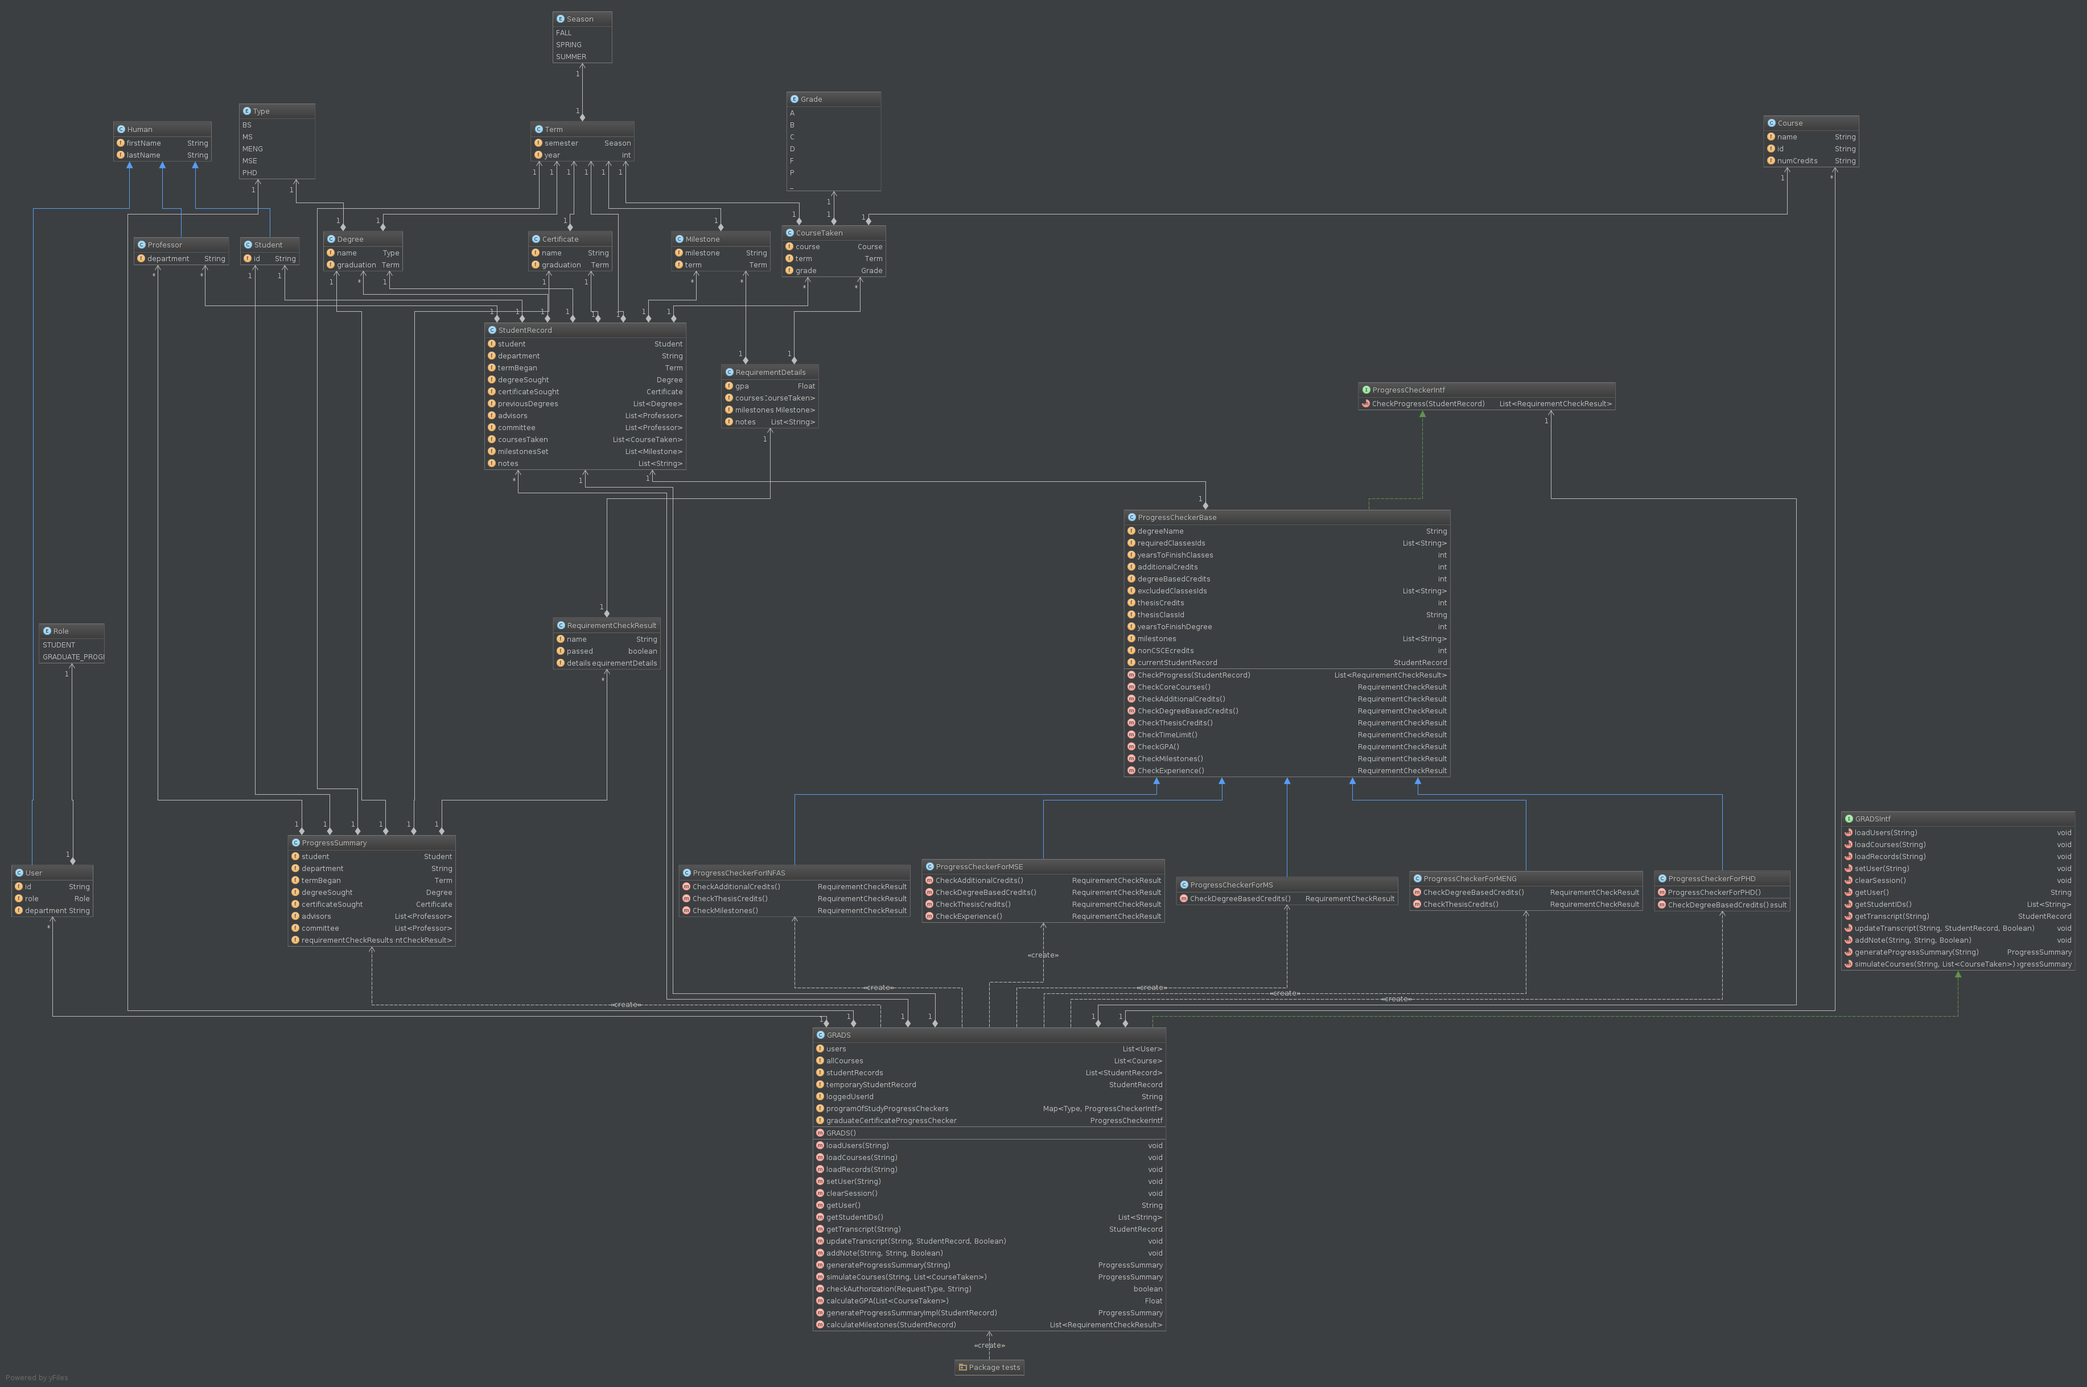
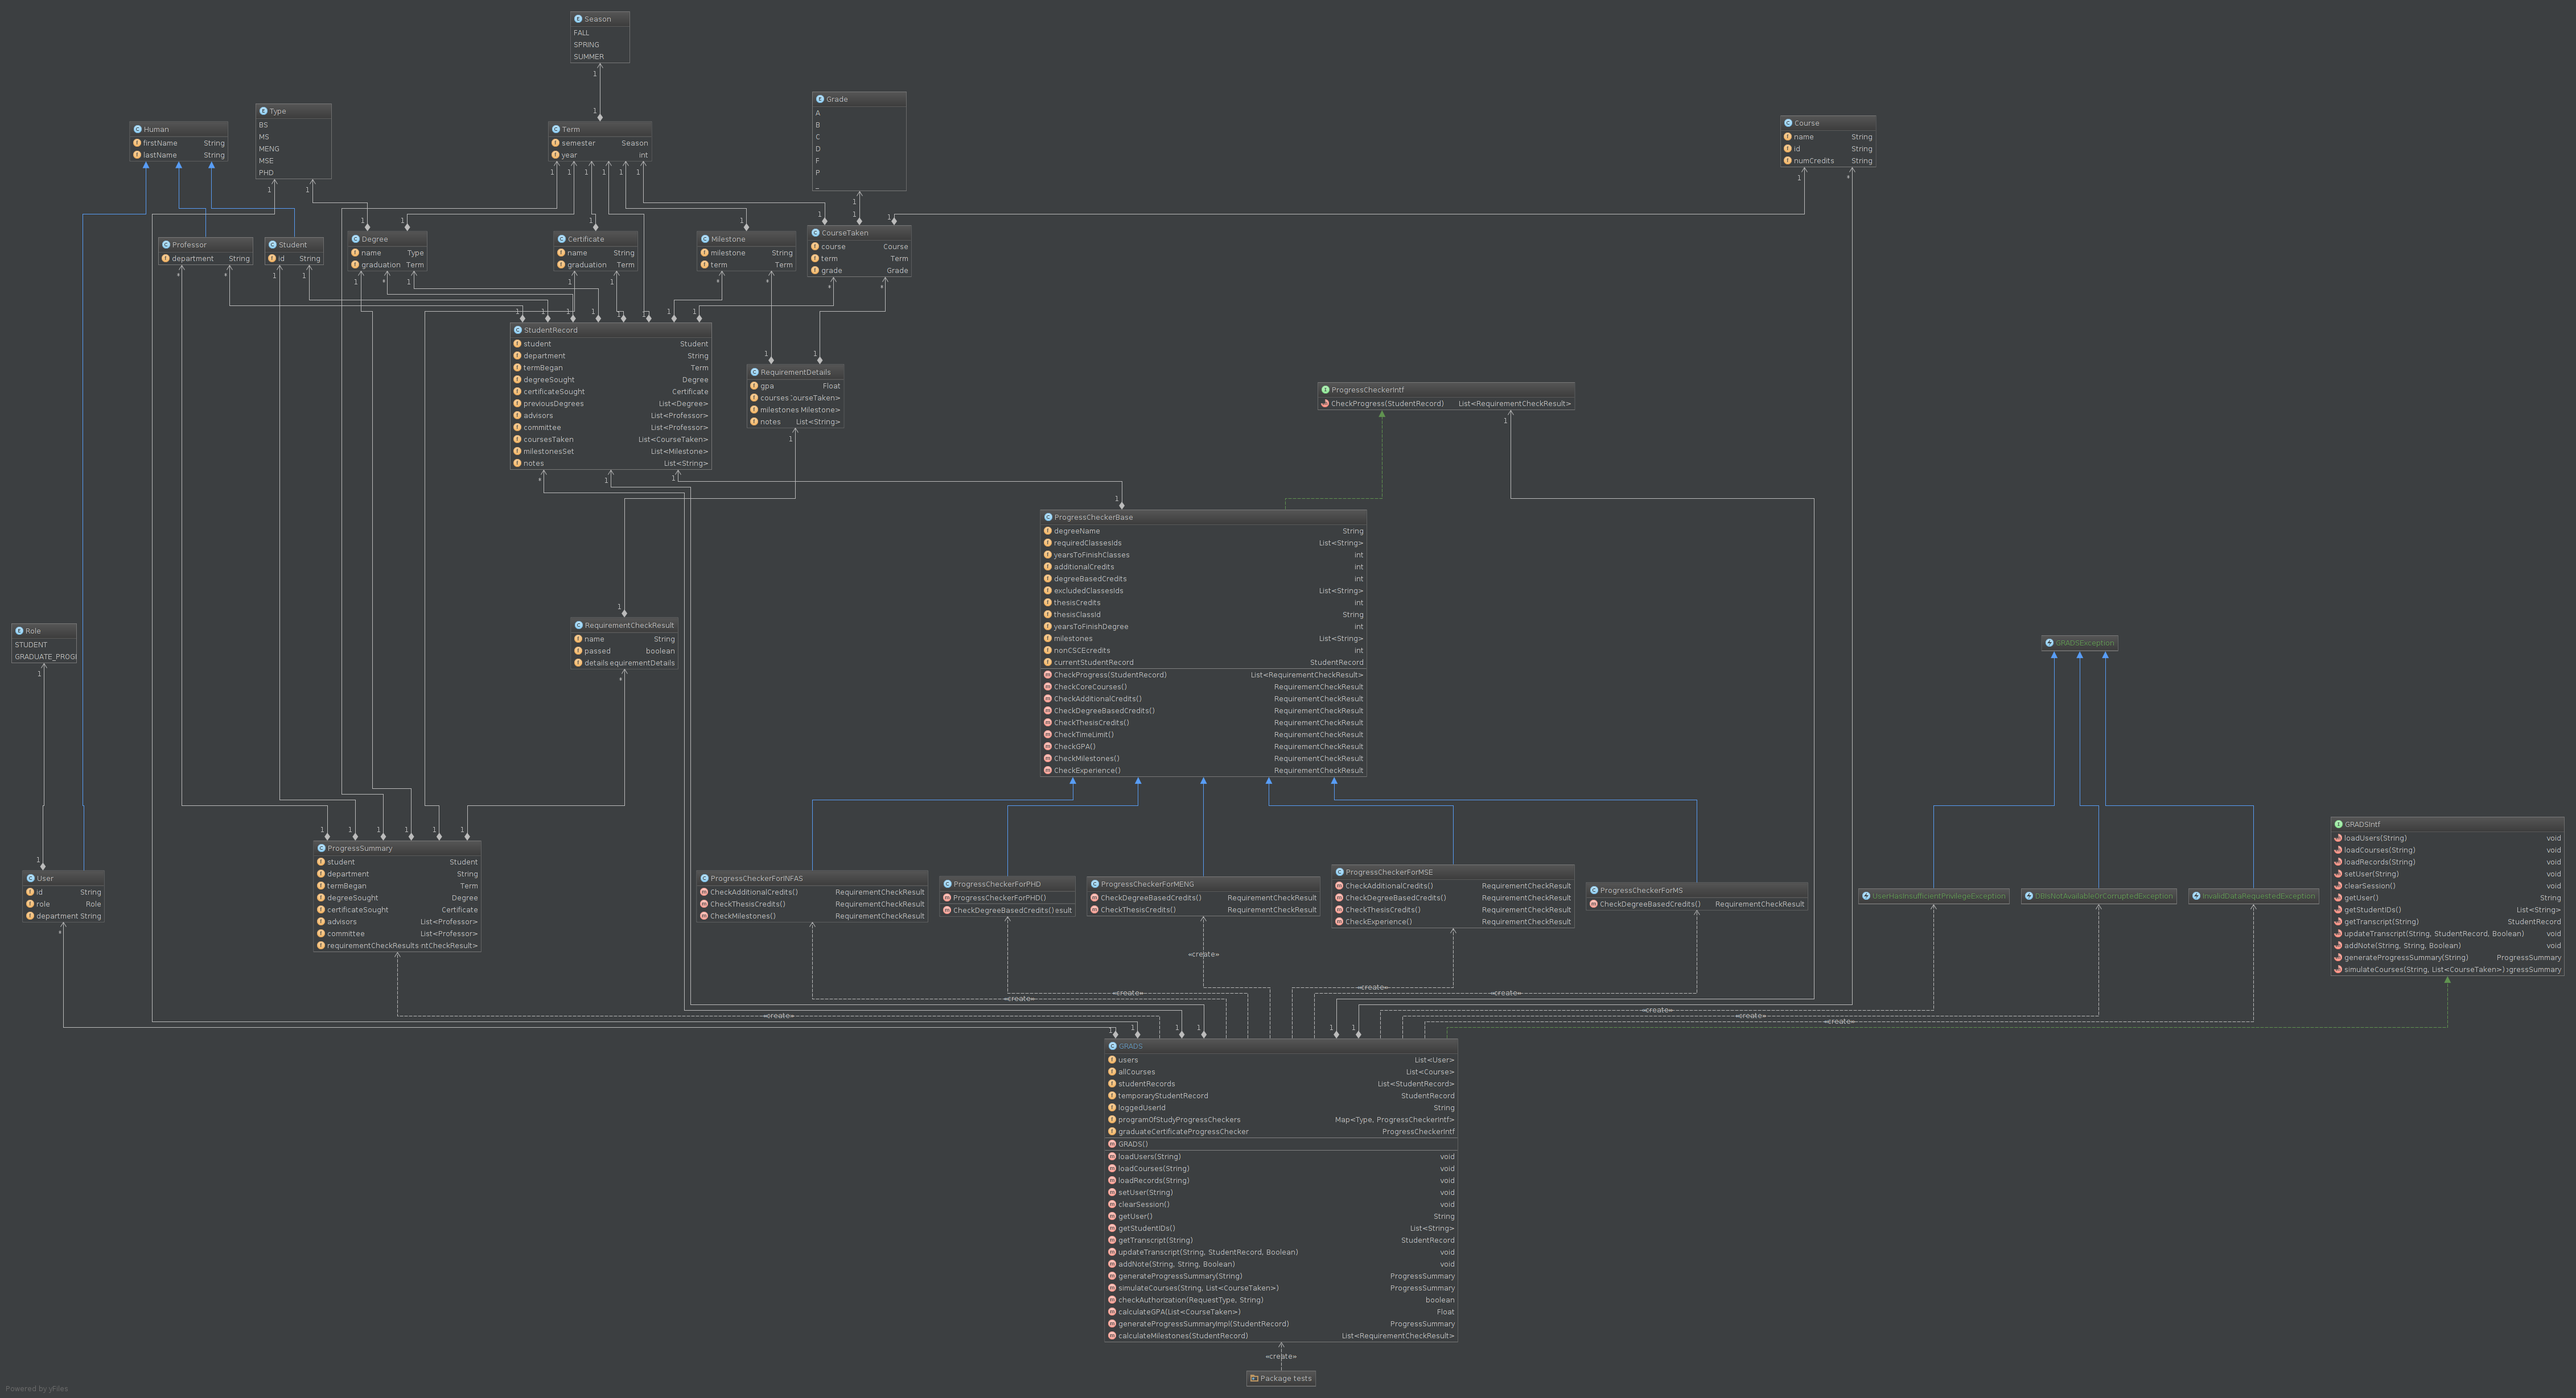
added GRADS exceptions and dummpy throwing of them in GRADS class for correct class diagram. Updated class diagram

diff --git a/grads/src/edu/sc/csce740/GRADS.java b/grads/src/edu/sc/csce740/GRADS.java
@@ -2,6 +2,9 @@ package edu.sc.csce740;
 
 import com.google.gson.Gson;
 import com.google.gson.reflect.TypeToken;
+import edu.sc.csce740.exception.DBIsNotAvailableOrCorruptedException;
+import edu.sc.csce740.exception.InvalidDataRequestedException;
+import edu.sc.csce740.exception.UserHasInsufficientPrivilegeException;
 import edu.sc.csce740.model.*;
 
 import java.io.File;
@@ -35,6 +38,10 @@ public class GRADS implements GRADSIntf {
     public void loadUsers(String usersFile) throws Exception {
         users = new Gson().fromJson( new FileReader( new File(usersFile)), new TypeToken<List<User>>(){}.getType());
         int fg = 67;
+        if (fg == 23) {
+            throw new DBIsNotAvailableOrCorruptedException();
+        }
+
     }
 
     @Override
@@ -54,6 +61,13 @@ public class GRADS implements GRADSIntf {
         // TODO: throw exception if the db is not loaded
         // TODO: check that useid in the list, unless throw exception
         loggedUserId = userId;
+        int fg = 67;
+        if (fg == 23) {
+            throw new DBIsNotAvailableOrCorruptedException();
+        } else if (fg == 56) {
+            throw new InvalidDataRequestedException();
+        }
+
     }
 
     @Override
@@ -72,6 +86,14 @@ public class GRADS implements GRADSIntf {
     public List<String> getStudentIDs() throws Exception {
         checkAuthorization(RequestType.GET_STUDENT_IDS, "");
         /// TODO: Collect Students from the same department as GPC
+        int fg = 67;
+        if (fg == 23) {
+            throw new DBIsNotAvailableOrCorruptedException();
+        } else if (fg == 56) {
+            throw new InvalidDataRequestedException();
+        } else if (fg == 89) {
+            throw new UserHasInsufficientPrivilegeException();
+        }
         return null;
     }
 

diff --git a/grads/src/edu/sc/csce740/exception/UserHasInsufficientPrivilegeException.java b/grads/src/edu/sc/csce740/exception/UserHasInsufficientPrivilegeException.java
@@ -1,0 +1,7 @@
+package edu.sc.csce740.exception;
+
+/**
+ * Created by paladin on 11/8/15.
+ */
+public class UserHasInsufficientPrivilegeException extends GRADSException {
+}

diff --git a/grads/src/edu/sc/csce740/exception/DBIsNotAvailableOrCorruptedException.java b/grads/src/edu/sc/csce740/exception/DBIsNotAvailableOrCorruptedException.java
@@ -1,0 +1,7 @@
+package edu.sc.csce740.exception;
+
+/**
+ * Created by paladin on 11/8/15.
+ */
+public class DBIsNotAvailableOrCorruptedException extends GRADSException {
+}

diff --git a/grads/src/edu/sc/csce740/exception/InvalidDataRequestedException.java b/grads/src/edu/sc/csce740/exception/InvalidDataRequestedException.java
@@ -1,0 +1,7 @@
+package edu.sc.csce740.exception;
+
+/**
+ * Created by paladin on 11/8/15.
+ */
+public class InvalidDataRequestedException extends GRADSException {
+}

diff --git a/grads/src/edu/sc/csce740/exception/GRADSException.java b/grads/src/edu/sc/csce740/exception/GRADSException.java
@@ -1,0 +1,7 @@
+package edu.sc.csce740.exception;
+
+/**
+ * Created by paladin on 11/8/15.
+ */
+public class GRADSException extends Exception {
+}
